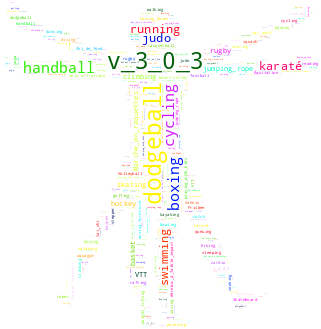
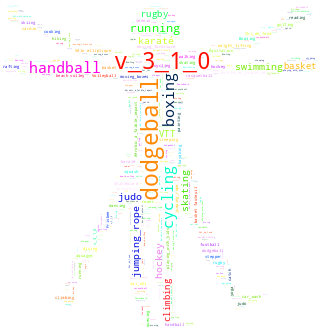
Add language menu
Add More docs

Add theme

Changed region(s): [[0.0, 0.0, 0.9969, 1.0], [0.0312, 0.0, 0.1246, 0.0912]]

diff --git a/trianer/__version__.py b/trianer/__version__.py
@@ -1,1 +1,1 @@
-__version__ = '3.0.3'
+__version__ = '3.1.0'

diff --git a/CHANGELOG.md b/CHANGELOG.md
@@ -9,10 +9,11 @@
 - Have a clear chart color and share it with the app
 
 
-#### [3.0.3] - 2022-09-29
+#### [3.1.0] - 2022-09-29
 
 - Add language menu
 - Add More docs
+- Add theme
 
 #### [2.8.3] - 2022-09-29
 
